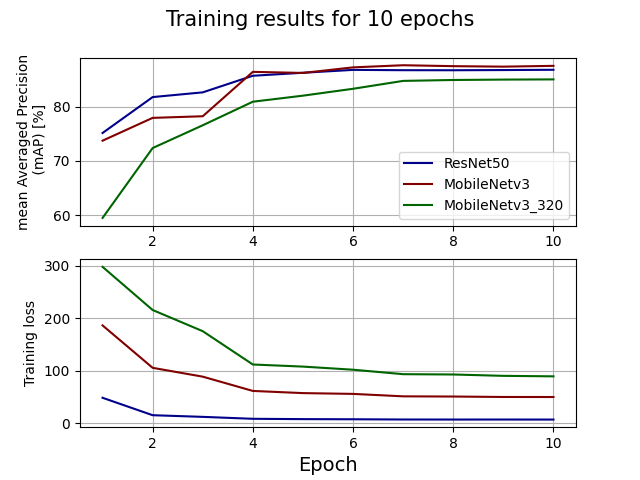
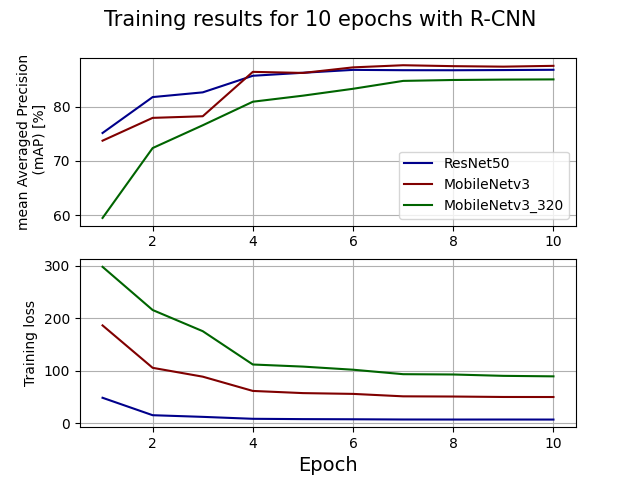
Changed title in one plot

Changed region(s): [[0.1562, 0.0, 0.8438, 0.0625]]

diff --git a/data/stats/loss_graph.py b/data/stats/loss_graph.py
@@ -47,7 +47,7 @@ for i, (modelacc, modelloss) in enumerate(zip(acc, losses)):
     axs[1].grid(True)
 
 axs[1].set_xlabel("Epoch", fontsize = 14)
-fig.suptitle("Training results for 10 epochs",fontsize=15)
+fig.suptitle("Training results for 10 epochs with R-CNN",fontsize=15)
 # plt.legend(artists)
 plt.savefig('trainingaccloss.png', pad_inches = 0.1)
 
